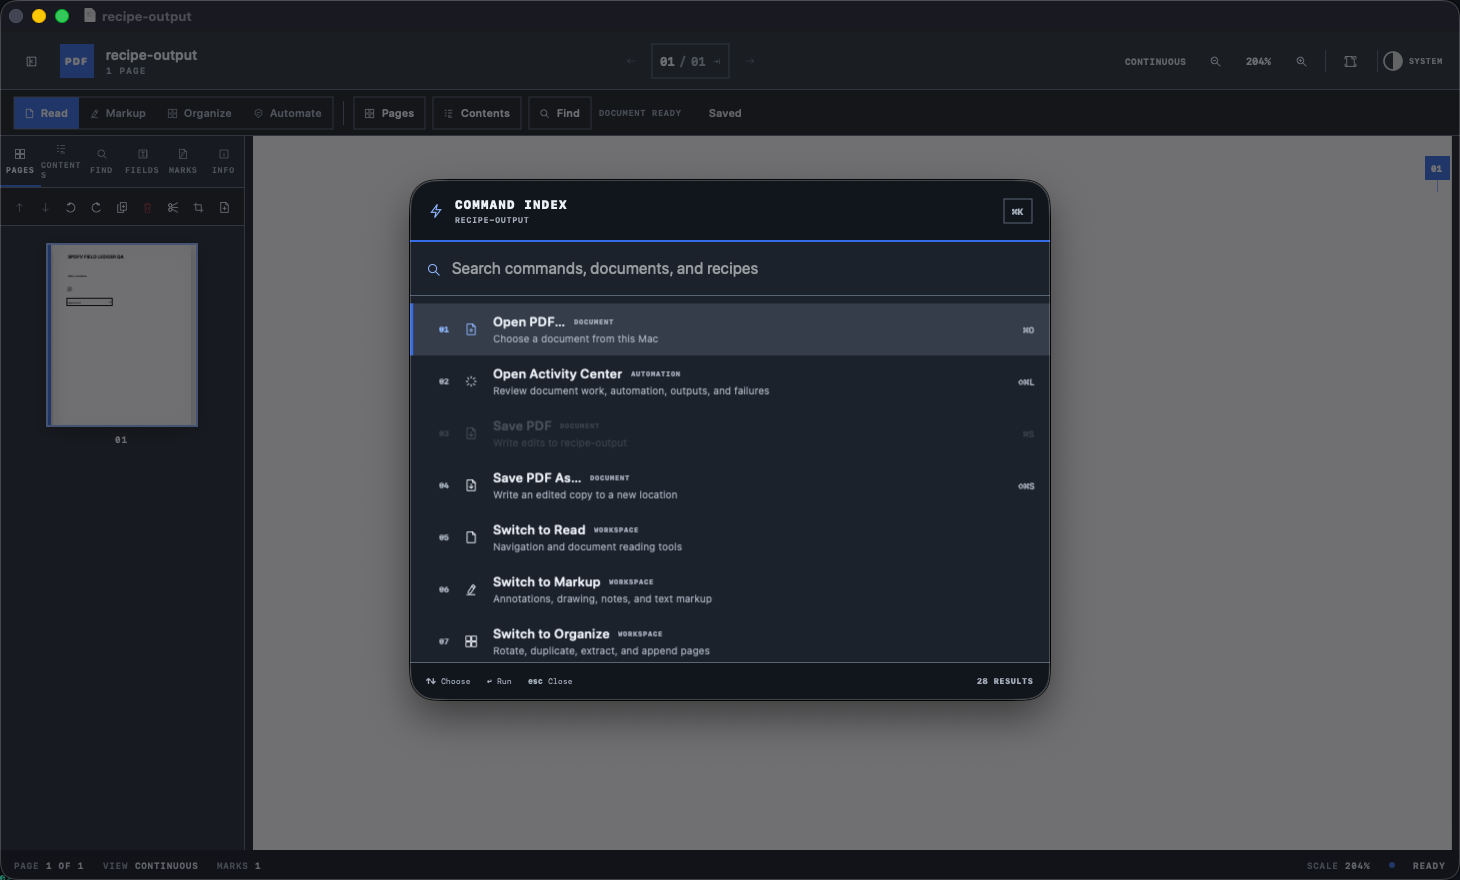
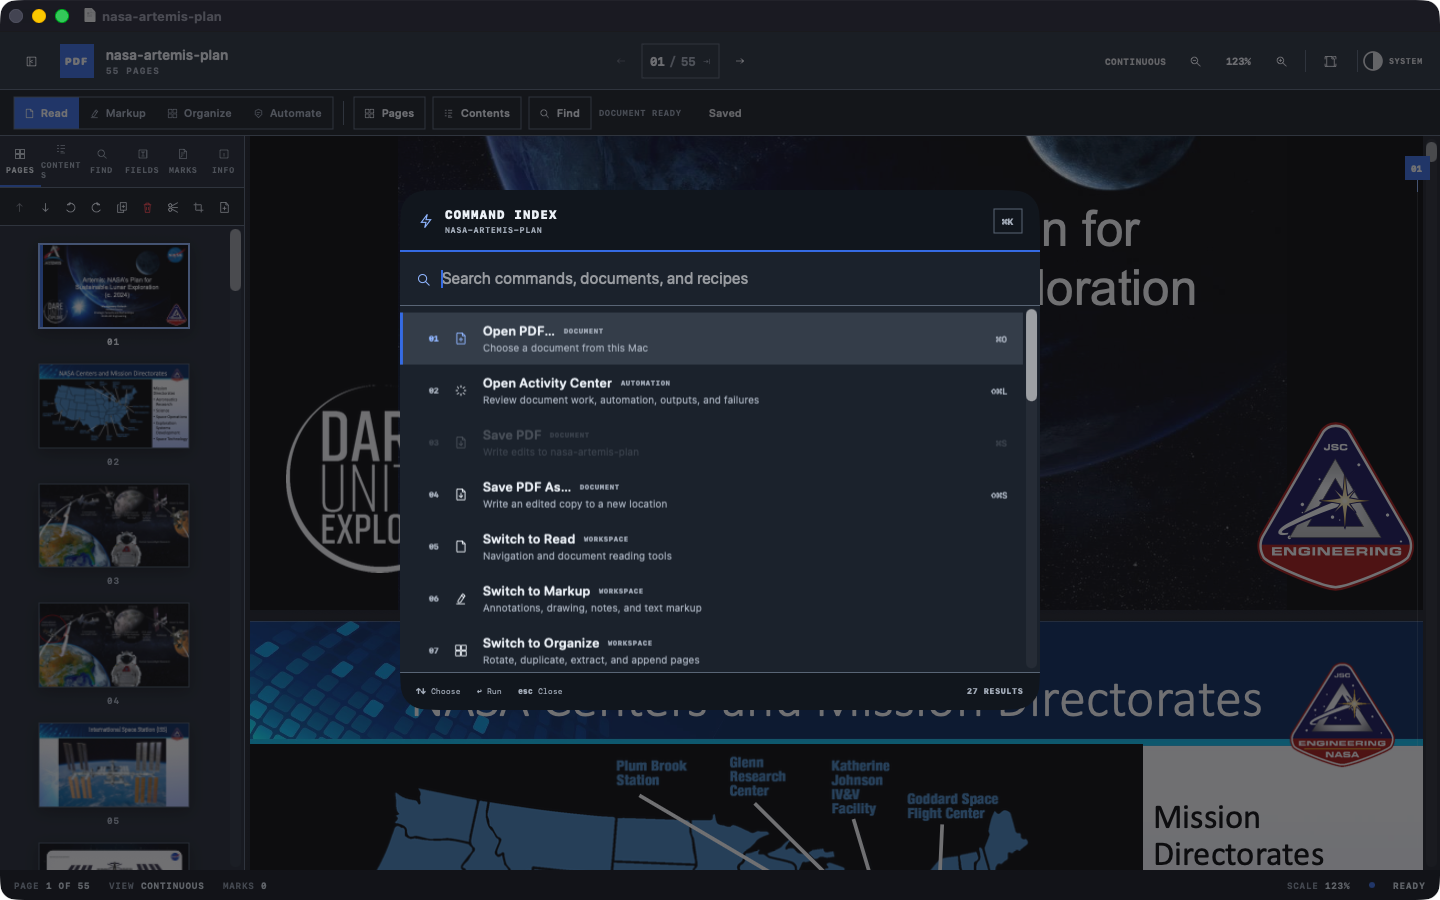
docs: refresh screenshots with real PDFs

diff --git a/README.md b/README.md
@@ -1,6 +1,6 @@
 # SPDFV
 
-![SPDFV Command Index](Screenshots/spdfv-command-index.png)
+![SPDFV displaying NASA's Artemis lunar exploration plan](Screenshots/spdfv-workspace.png)
 
 SPDFV is a native PDF workspace for macOS. It opens quickly for ordinary reading, but keeps serious document work close at hand: annotations, page editing, forms, OCR, redaction, repeatable recipes, background jobs, and a command-line interface.
 
@@ -25,17 +25,19 @@ SPDFV is pre-release software. Keep an original copy of important documents whil
 
 ## Interface
 
-### Document workspace
+### Command Index
 
-![SPDFV document workspace in Markup mode](Screenshots/spdfv-workspace.png)
+![SPDFV Command Index over NASA's Artemis lunar exploration plan](Screenshots/spdfv-command-index.png)
 
-### Recipe Press
+### Markup workspace
 
-![SPDFV Recipe Press with a verified workflow](Screenshots/spdfv-recipe-press.png)
+![SPDFV Markup workspace displaying NASA's Artemis lunar exploration plan](Screenshots/spdfv-markup-workspace.png)
 
-### Activity Center
+### Interactive forms
 
-![SPDFV Activity Center showing completed document work](Screenshots/spdfv-activity-center.png)
+![SPDFV Fields workspace displaying a blank IRS Form W-9](Screenshots/spdfv-form-workspace.png)
+
+Screenshots use public documents from [NASA](https://ntrs.nasa.gov/citations/20240011013) and the [IRS](https://www.irs.gov/forms-pubs/about-form-w-9).
 
 ## Requirements
 
